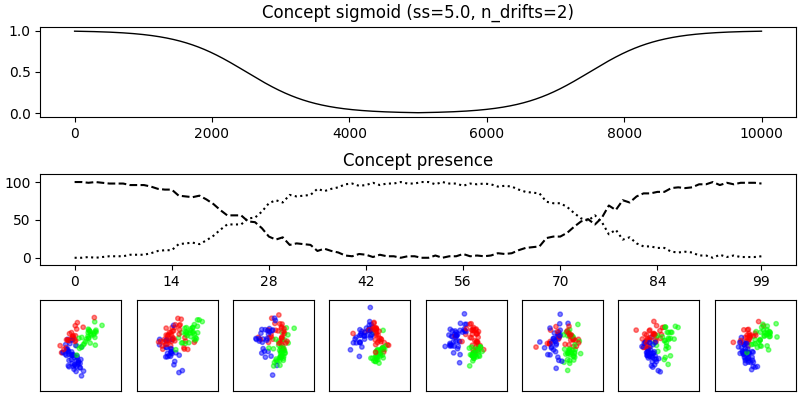
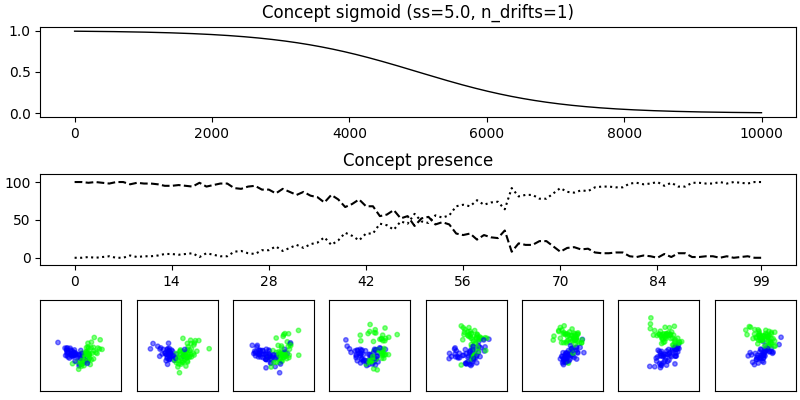
Preparation for gradual drift.

diff --git a/strlearn/streams/StreamGenerator.py b/strlearn/streams/StreamGenerator.py
@@ -41,8 +41,8 @@ class StreamGenerator:
         n_chunks=250,
         chunk_size=200,
         random_state=1410,
-        n_drifts=4,
-        concept_sigmoid_spacing=10.0,
+        n_drifts=0,
+        concept_sigmoid_spacing=None,
         n_classes=2,
         **kwargs,
     ):
@@ -97,42 +97,46 @@ class StreamGenerator:
                 ]
             )
 
-            # Okres
-            period = (
-                int((self.n_samples) / (self.n_drifts))
-                if self.n_drifts > 0
-                else int(self.n_samples)
-            )
-
-            # Sigmoid
-            self.concept_sigmoid = (
-                logistic.cdf(
-                    np.concatenate(
-                        [
-                            np.linspace(
-                                -self.concept_sigmoid_spacing
-                                if i % 2
-                                else self.concept_sigmoid_spacing,
-                                self.concept_sigmoid_spacing
-                                if i % 2
-                                else -self.concept_sigmoid_spacing,
-                                period,
-                            )
-                            for i in range(self.n_drifts)
-                        ]
-                    )
+            # Prepare concept sigmoids if there are drifts
+            if self.n_drifts > 0:
+                # Okres
+                period = (
+                    int((self.n_samples) / (self.n_drifts))
+                    if self.n_drifts > 0
+                    else int(self.n_samples)
                 )
-                if self.n_drifts > 0
-                else np.ones(self.n_samples)
-            )
-            # Szum
-            self.concept_noise = np.random.rand(self.n_samples)
-            self.balance_noise = np.random.rand(self.n_samples)
 
-            # Selekcja klas
-            self.concept_selector = (self.concept_sigmoid > self.concept_noise).astype(
-                int
-            )
+                # Sigmoid
+                css = (
+                    self.concept_sigmoid_spacing
+                    if self.concept_sigmoid_spacing is not None
+                    else 9999
+                )
+                self.concept_sigmoid = (
+                    logistic.cdf(
+                        np.concatenate(
+                            [
+                                np.linspace(
+                                    -css if i % 2 else css,
+                                    css if i % 2 else -css,
+                                    period,
+                                )
+                                for i in range(self.n_drifts)
+                            ]
+                        )
+                    )
+                    if self.n_drifts > 0
+                    else np.ones(self.n_samples)
+                )
+                # Szum
+                self.concept_noise = np.random.rand(self.n_samples)
+
+                # Selekcja klas
+                self.concept_selector = (
+                    self.concept_sigmoid > self.concept_noise
+                ).astype(int)
+
+            self.balance_noise = np.random.rand(self.n_samples)
             self.class_selector = (self.balance_noise * self.n_classes).astype(int)
 
             # Przypisanie klas i etykiet

diff --git a/examples/drift_plotter.py b/examples/drift_plotter.py
@@ -17,45 +17,24 @@ import matplotlib.pyplot as plt
 from matplotlib.gridspec import GridSpec
 
 
+mcargs = {
+    "n_classes": 2,
+    "n_chunks": 100,
+    "chunk_size": 100,
+    "random_state": 105,
+    "n_features": 2,
+    "n_informative": 2,
+    "n_redundant": 0,
+    "n_repeated": 0,
+    "n_features": 2,
+    "n_clusters_per_class": 1,
+}
+
 streams = {
+    "0_stationary": StreamGenerator(**mcargs),
+    "2_sudden_drift": StreamGenerator(n_drifts=1, **mcargs),
     "1_incremental_drift": StreamGenerator(
-        n_chunks=100,
-        chunk_size=100,
-        random_state=105,
-        n_features=2,
-        n_classes=3,
-        n_drifts=2,
-        n_informative=2,
-        n_redundant=0,
-        n_repeated=0,
-        concept_sigmoid_spacing=5,
-        n_clusters_per_class=1,
-    ),
-    "2_sudden_drift": StreamGenerator(
-        n_chunks=100,
-        chunk_size=100,
-        random_state=105,
-        n_features=2,
-        n_classes=3,
-        n_drifts=2,
-        n_informative=2,
-        n_redundant=0,
-        n_repeated=0,
-        concept_sigmoid_spacing=999,
-        n_clusters_per_class=1,
-    ),
-    "0_stationary": StreamGenerator(
-        n_chunks=100,
-        chunk_size=100,
-        random_state=105,
-        n_features=2,
-        n_classes=3,
-        n_drifts=0,
-        n_informative=2,
-        n_redundant=0,
-        n_repeated=0,
-        concept_sigmoid_spacing=5,
-        n_clusters_per_class=1,
+        n_drifts=1, concept_sigmoid_spacing=5, **mcargs
     ),
 }
 
@@ -75,9 +54,13 @@ for stream_name in streams:
         X, y = stream.get_chunk()
 
         start, end = (stream.chunk_size * i, stream.chunk_size * i + stream.chunk_size)
-        cs = stream.concept_selector[start:end]
-        a.append(np.sum(cs == 0))
-        b.append(np.sum(cs == 1))
+
+        if hasattr(stream, "concept_selector"):
+            cs = stream.concept_selector[start:end]
+            a.append(np.sum(cs == 0))
+            b.append(np.sum(cs == 1))
+        else:
+            a.append(stream.chunk_size)
 
         if i in checkpoints:
             index = np.where(checkpoints == i)[0][0]
@@ -98,11 +81,17 @@ for stream_name in streams:
 
     # Periodical sigmoid
     ax = fig.add_subplot(gs[0, :])
-    ax.set_title(
-        "Concept sigmoid (ss=%.1f, n_drifts=%i)"
-        % (stream.concept_sigmoid_spacing, stream.n_drifts)
-    )
-    ax.plot(stream.concept_sigmoid, lw=1, c="black")
+    if hasattr(stream, "concept_sigmoid"):
+        if stream.concept_sigmoid_spacing is not None:
+            ax.set_title(
+                "Concept sigmoid (ss=%.1f, n_drifts=%i)"
+                % (stream.concept_sigmoid_spacing, stream.n_drifts)
+            )
+        else:
+            ax.set_title("Concept sigmoid (n_drifts=%i)" % (stream.n_drifts))
+        ax.plot(stream.concept_sigmoid, lw=1, c="black")
+    else:
+        ax.set_title("No concept sigmoid")
     ax.set_ylim(-0.05, 1.05)
 
     plt.savefig("plots/%s.png" % stream_name)
